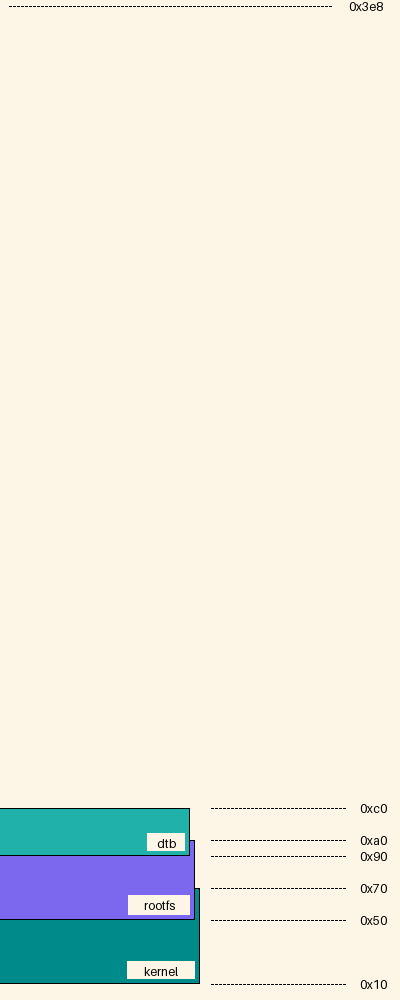
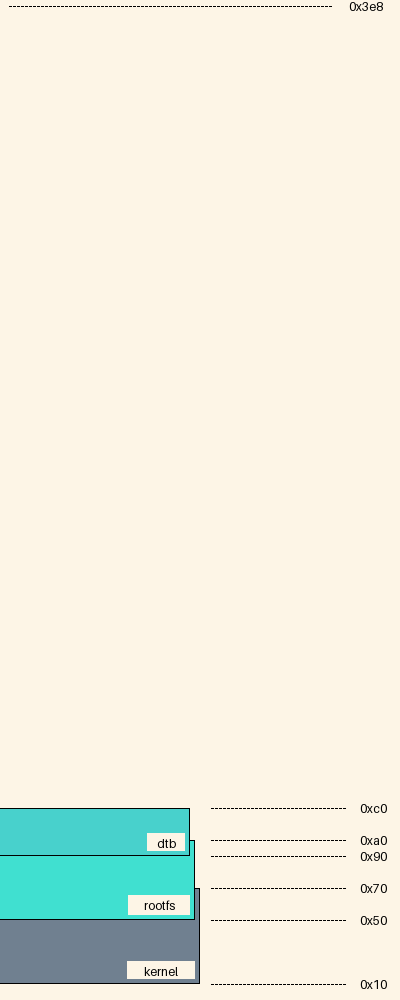
fixed regiondata checks and added unit test

Changed region(s): [[0.0, 0.806, 0.51, 0.992]]

diff --git a/tests/test_args.py b/tests/test_args.py
@@ -45,6 +45,36 @@ def test_arg_tuple():
         mm.diagram.MemoryMap()
 
 
+def test_invalid_region_data_format1():
+    with unittest.mock.patch('sys.argv',
+                             ['mmap_digram.diagram',
+                              'a',
+                              '10',
+                              '0x10']):
+        with pytest.raises(SystemExit):
+            mm.diagram.MemoryMap()
+
+
+def test_invalid_region_data_format2():
+    with unittest.mock.patch('sys.argv',
+                             ['mmap_digram.diagram',
+                              'a',
+                              '10',
+                              '0x10']):
+        with pytest.raises(SystemExit):
+            mm.diagram.MemoryMap()
+
+
+def test_invalid_region_data_formatBoth():
+    with unittest.mock.patch('sys.argv',
+                             ['mmap_digram.diagram',
+                              'a',
+                              '10',
+                              '10']):
+        with pytest.raises(SystemExit):
+            mm.diagram.MemoryMap()
+
+
 def test_invalid_out_arg():
     ''' output path should end in .md  '''
     with unittest.mock.patch('sys.argv',

diff --git a/mm/diagram.py b/mm/diagram.py
@@ -60,6 +60,9 @@ class MemoryMap:
             name = t[0]
             origin = t[1]
             size = t[2]
+            if not origin[:2] == "0x" or not size[:2] == "0x":
+                logging.critical(f"Region 'origin' and 'size' data should be in hex (0x) format: Found {t}", )
+                raise SystemExit()
             if self._region_list and any(x.name == name for x in self._region_list):
                 warnings.warn(f"Duplicate memregion names ({name}) are not permitted. MemoryRegion will not be added.", RuntimeWarning)
             else:

diff --git a/doc/example/tests.test_docs_collisions.md b/doc/example/tests.test_docs_collisions.md
@@ -1,6 +1,6 @@
 ![memory map diagram](tests.test_docs_collisions.png)
 |name|origin|size|remaining|collisions
 |:-|:-|:-|:-|:-|
-|<span style='color:darkcyan'>kernel</span>|0x10|0x60|-0x20|{'rootfs': '0x50'}|
-|<span style='color:mediumslateblue'>rootfs</span>|0x50|0x50|-0x10|{'kernel': '0x50', 'dtb': '0x90'}|
-|<span style='color:lightseagreen'>dtb</span>|0x90|0x30|0x328|{'rootfs': '0x90'}|
+|<span style='color:slategray'>kernel</span>|0x10|0x60|-0x20|{'rootfs': '0x50'}|
+|<span style='color:turquoise'>rootfs</span>|0x50|0x50|-0x10|{'kernel': '0x50', 'dtb': '0x90'}|
+|<span style='color:mediumturquoise'>dtb</span>|0x90|0x30|0x328|{'rootfs': '0x90'}|

diff --git a/doc/example/tests.test_docs_normal.md b/doc/example/tests.test_docs_normal.md
@@ -1,6 +1,6 @@
 ![memory map diagram](tests.test_docs_normal.png)
 |name|origin|size|remaining|collisions
 |:-|:-|:-|:-|:-|
-|<span style='color:midnightblue'>kernel</span>|0x10|0x30|0x10|{}|
-|<span style='color:darkslategrey'>rootfs</span>|0x50|0x30|0x110|{}|
-|<span style='color:lightseagreen'>dtb</span>|0x190|0x30|0x228|{}|
+|<span style='color:lightslategrey'>kernel</span>|0x10|0x30|0x10|{}|
+|<span style='color:skyblue'>rootfs</span>|0x50|0x30|0x110|{}|
+|<span style='color:maroon'>dtb</span>|0x190|0x30|0x228|{}|
